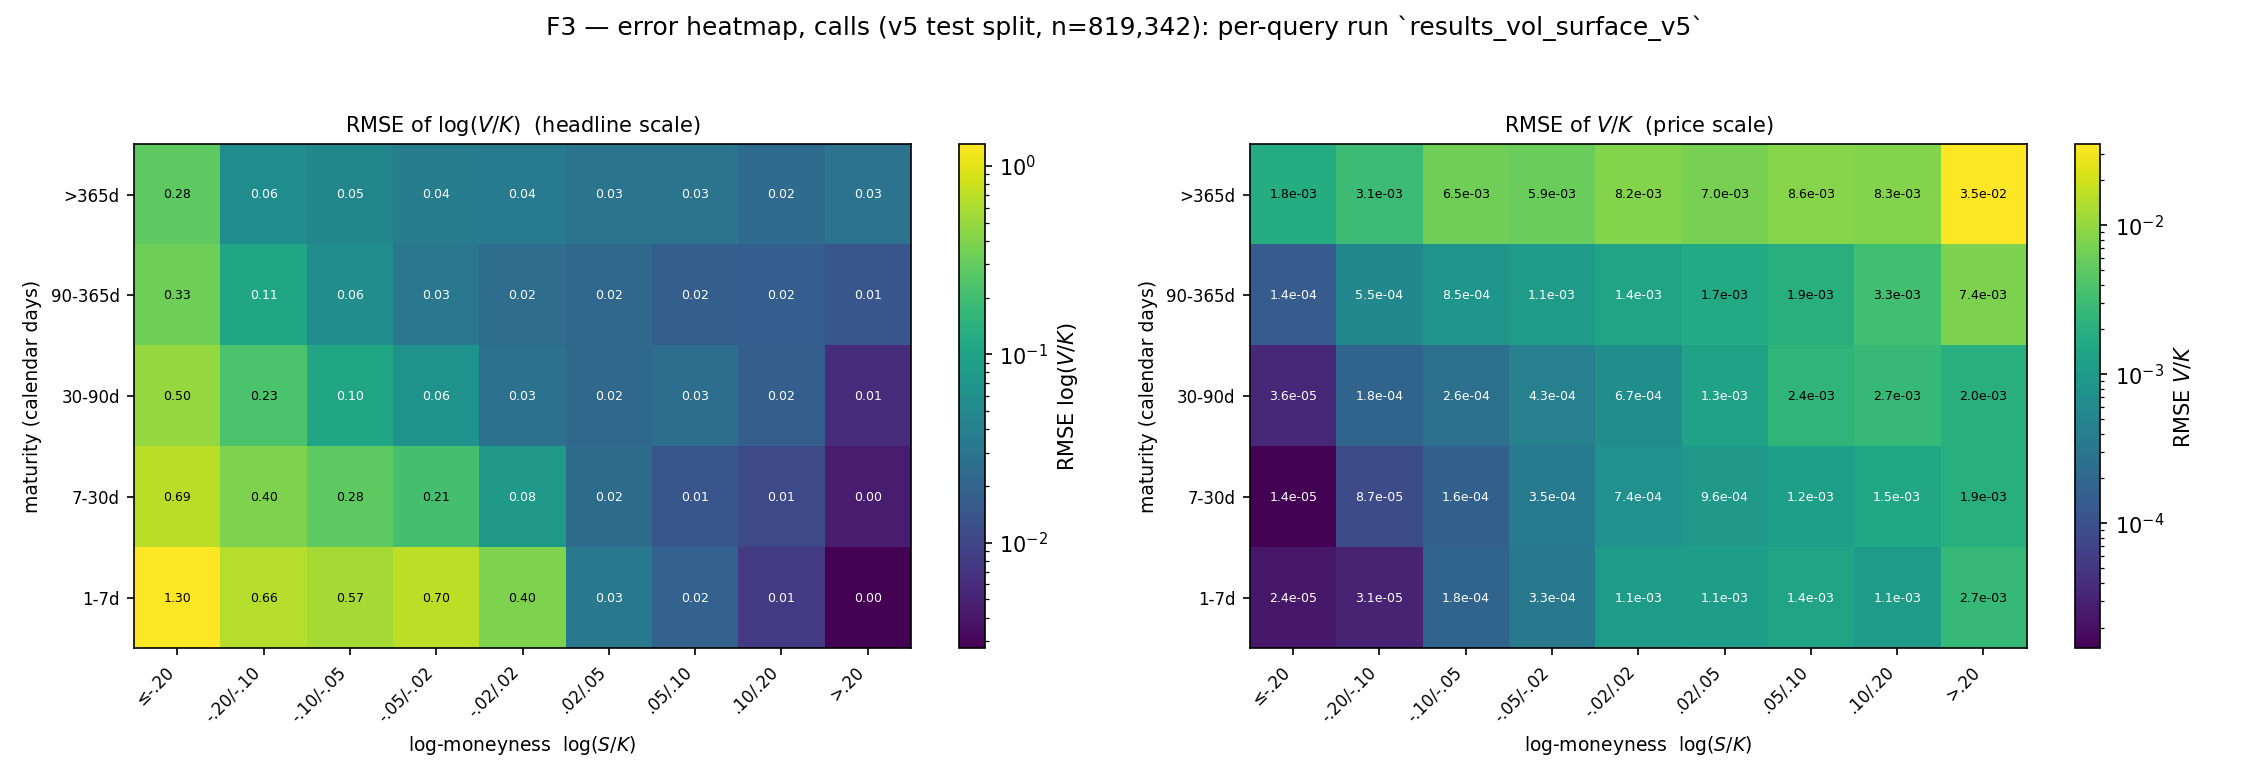
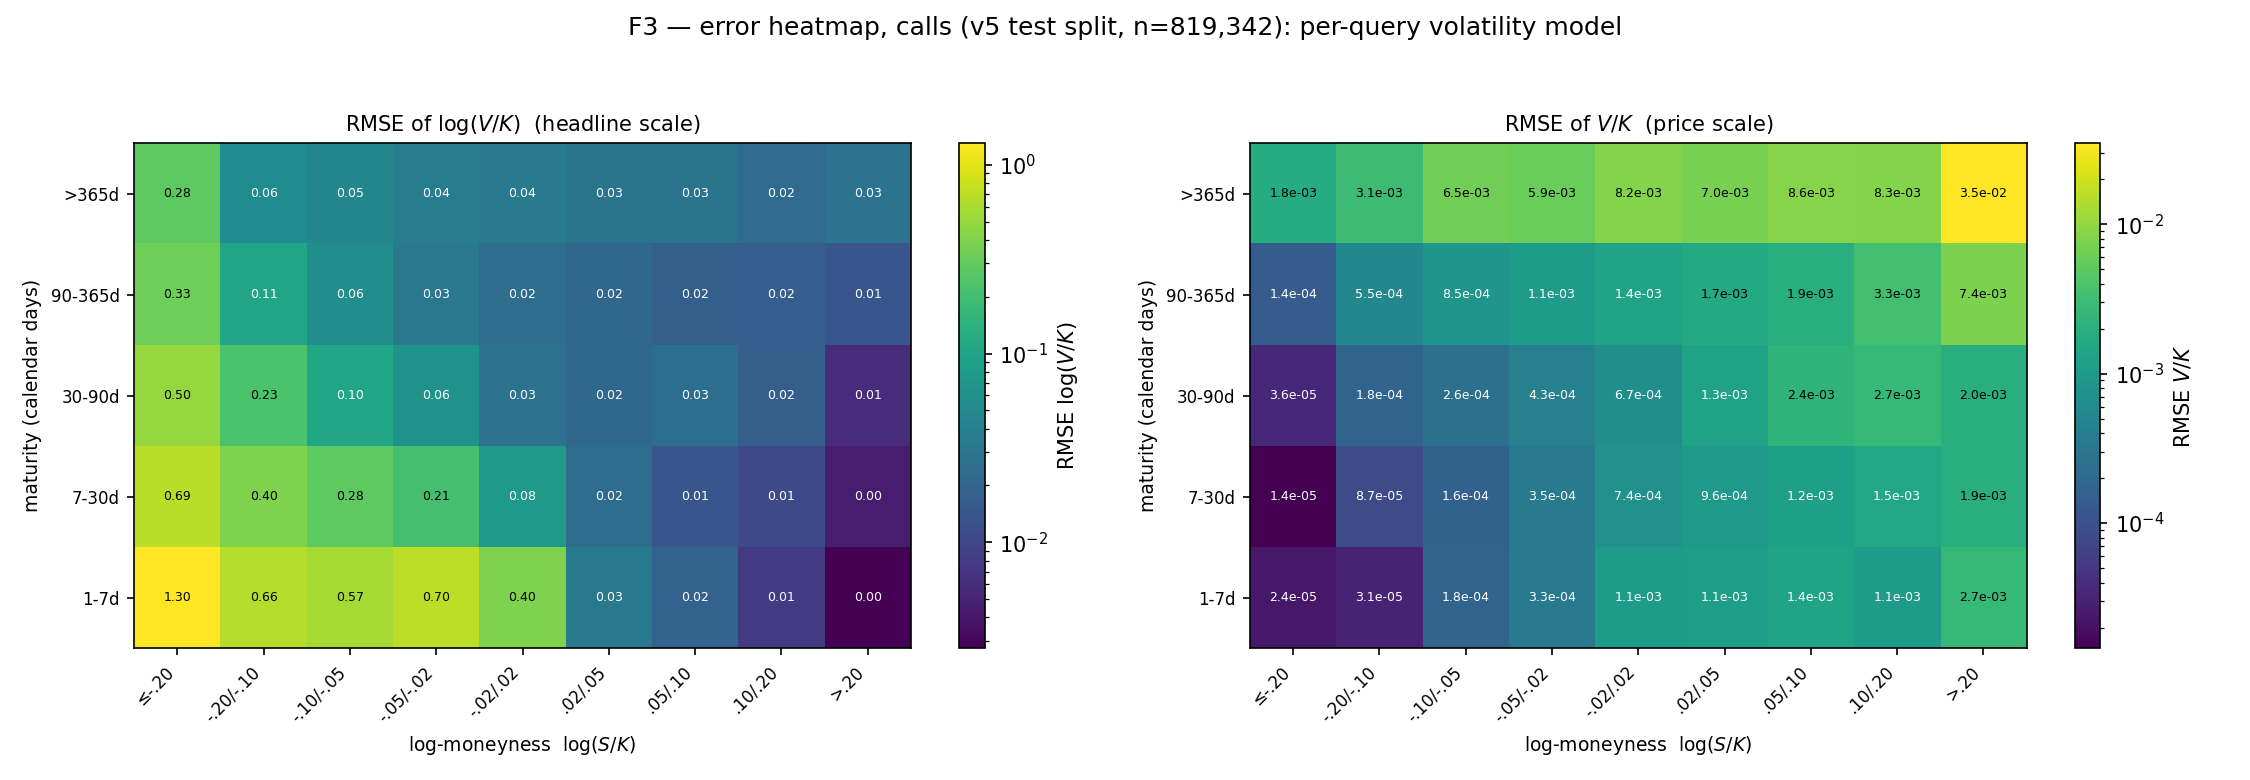
Fix four manuscript errors and F3 figure title
- §1: delete the "matches or beats a direct-price regressor of equal
  capacity" contribution outright — no such control was ever trained.
  Contributions renumbered 1-2; the greeks / pointwise-BS-consistency
  claims are kept as structural properties. Removes the now-moot
  "should be dropped" flags in the status note and §7, and the same
  item from §8's remaining-work list.
- §6/T4: correct the call/put ITM/OTM orientation. The deepest-negative
  log-moneyness column is OTM for calls (not ITM) and ITM for puts; the
  put "naturally OTM on the left" clause contradicted the rest of its
  own sentence. Labels re-derived from results/fig_F3_error_heatmap_v5.md.
- §6/T4 + §7: reframe mechanism (b). Near-ATM ill-conditioning of
  dlog(price)/dsigma worsens continuously as T -> 0; it is not defined by
  a T <= 1 day range that v5 does not contain. The (1.73, 7]-day band is
  v5's shortest surviving maturity and hence where it is most visible.
- §4.3 (new): retention / row-count table across the pipeline, compiled
  from VALIDATION_v4.json, VALIDATION_v5.json and DATASET_MANIFEST.json.
  No new computation; the raw-CSV stage is explicitly still TODO.
- analysis/fig_error_heatmap.py: drop the source-directory name from the
  F3 suptitle; PNGs regenerated (identical statistics, title text only).

diff --git a/analysis/fig_error_heatmap.py b/analysis/fig_error_heatmap.py
@@ -171,7 +171,7 @@ def make_figure(option_type, out_png, max_contracts=None, device="cpu"):
     _panel(axes[1], rmse_price, counts, "RMSE of $V/K$  (price scale)",
            "RMSE $V/K$", ".1e")
     fig.suptitle(f"F3 — error heatmap, {option_type}s (v5 test split, n={counts.sum():,}): "
-                 f"per-query run `results_vol_surface_v5`", fontsize=12)
+                 f"per-query volatility model", fontsize=12)
     fig.tight_layout(rect=(0, 0, 1, 0.95))
     Path(out_png).parent.mkdir(parents=True, exist_ok=True)
     fig.savefig(out_png, dpi=150)

diff --git a/report.md b/report.md
@@ -167,9 +167,8 @@ from. Do not cite a number here that is not in a results file.*
 > §6). Trained weights (`*.pth`) are not committed to git; the committed artifacts are `config.json`,
 > `metrics.json`, `loss_history.txt`, `loss_plot.png` per run.
 >
-> **What is still genuinely open** (unchanged by this note, see §7 for the full list): the "matches
-> or beats a direct-price regressor" claim has no supporting experiment and should be dropped from
-> the manuscript rather than backed after the fact; figures F1 (architecture diagram), F4 (near-expiry
+> **What is still genuinely open** (unchanged by this note, see §7 for the full list): figures F1
+> (architecture diagram), F4 (near-expiry
 > SSE-vs-T tail), and F6 (a greeks-agreement *figure*, as opposed to the already-run greeks *check*)
 > are not built; related-work citations (§2) and environment/dependency pinning (Appendix C) are not
 > gathered; a surface-wide arbitrage violation-rate diagnostic remains queued, non-blocking work.
@@ -235,11 +234,14 @@ would include a `dσ̂/dS · vega` term the frozen-`σ̂` check cannot see.
 
 **Contributions (headline claims).**
 1. Per-query `σ̂` recovers the volatility smile/skew that a single-scalar `σ̂` cannot.
-2. The analytical-BS decoder matches or beats a direct-price regressor of equal capacity, while
-   giving analytic partial greeks and pointwise BS-consistent prices.
-3. Among market-state inputs (IV surface / SPX history / VIX history), we quantify which prices best
+2. Among market-state inputs (IV surface / SPX history / VIX history), we quantify which prices best
    — and by how much (§6, T1; all three legs done on v5, including the corrected genuine-CBOE-VIX
    `vix_history` runs).
+
+The analytical-BS decoder additionally gives analytic partial greeks (verified in §5.4) and
+pointwise BS-consistent prices (§3.4) — structural properties of the design. This paper makes no
+claim about how it compares to a direct-price regressor of equal capacity: that control was never
+run (§7).
 
 > **Note on scope (keep while drafting):** this is an empirical / application paper. The core idea
 > (differentiable BS layer, learning IV not price, analytical-pricer decoder) is sound but **not
@@ -498,7 +500,6 @@ puts (~5.3%). ⚠ v3's `T > 1/365` filter did **not** actually exclude 1-day 
 filter (§4.1) is a no-op — on v4, "headline" and "full-domain" `R²(log)` are the same number. Do
 **not** re-cut v4 to imitate the v3 float32 rounding accident; that would weaken the methodology.
 
-> **TODO:** retention / row-count table across the full pipeline (raw → filtered → per-split).
 > **Resolved 2026-08-12:** whether per-contract observed IV can be recovered for the smile figure
 > F2 — `analysis/baselines.py` now inverts `normalized_price` via vectorised bisection on the v4
 > sample and cross-checks it against the stored OptionMetrics `impl_volatility`: combined coverage
@@ -508,6 +509,45 @@ filter (§4.1) is a no-op — on v4, "headline" and "full-domain" `R²(log)` are
 > the numbers. **Resolved 2026-08-15:** the 12 core model runs are trained on v5 (§4.1a, §5.1) — the
 > full experimental campaign for this paper is complete; see the 2026-08-15 note near the top of this
 > document.
+
+### 4.3 Retention / row counts across the pipeline
+
+Compiled from `wrds_data_2020-2025/VALIDATION_v4.json`, `VALIDATION_v5.json` and
+`DATASET_MANIFEST.json` (no new computation; percentages are `(v4 − v5) / v4`).
+
+**Stage 1 — phase-1 parquet.** `deeponet_training_data_parts_v4/` holds **13,595,211** rows in 43
+parts, both option types combined, *before* the maturity cut (`VALIDATION_{v4,v5}.json`,
+`parquet_rows_all_types`). Phase 2 then splits by `cp_flag` and applies the required-column
+null-drop, the `vol_surface_vector` length check and the `--min-maturity-days 1.0` settlement-aware
+maturity cut, yielding the v4 HDF5 row counts below (12,946,646 call+put, i.e. 648,565 parquet rows
+did not survive phase 2).
+
+**Stage 2 — v4 (unfiltered) → v5 (quote-quality filtered).** The zero-tolerance static
+no-arbitrage midpoint filter (§4.1a, `results/QUOTE_QUALITY_REPORT.md`) removes rows only; all
+2128/266/267 split dates are preserved bit-identically.
+
+| option | split | v4 rows | v5 rows | removed | removed % |
+|---|---|---:|---:|---:|---:|
+| call | train | 3,360,823 | 3,297,722 | 63,101 | 1.878% |
+| call | validation | 754,276 | 729,204 | 25,072 | 3.324% |
+| call | test | 840,493 | 819,342 | 21,151 | 2.516% |
+| call | **total** | **4,955,592** | **4,846,268** | **109,324** | **2.206%** |
+| put | train | 5,370,629 | 5,323,327 | 47,302 | 0.881% |
+| put | validation | 1,229,955 | 1,221,643 | 8,312 | 0.676% |
+| put | test | 1,390,470 | 1,380,379 | 10,091 | 0.726% |
+| put | **total** | **7,991,054** | **7,925,349** | **65,705** | **0.822%** |
+
+Split dates are identical in v4 and v5: train 2,128 dates (2015-02-02 … 2023-07-17), validation 266
+(2023-07-18 … 2024-08-06), test 267 (2024-08-07 … 2025-08-29). The train-vs-test removal
+differential is small (+0.64 pp call, −0.16 pp put), which is why this rule was preferred over
+spread-based alternatives that shift 1.9–4.4× more of train than test (§4.1a).
+
+> **Still TODO (one stage only):** the *raw* OptionMetrics CSV row count and the per-rule attrition
+> inside phase 1 (secid/index filters, date-range cut, VIX/spot join losses) are not recorded in any
+> committed artifact — only the post-phase-1 parquet total (13,595,211) and the 648,565-row phase-2
+> attrition are, and the latter is not itself broken down by cause (null-drop vs surface-length vs
+> maturity cut). Filling this in requires re-scanning the raw CSVs, which is new computation and was
+> deliberately not run for this table.
 
 ---
 
@@ -792,7 +832,8 @@ separately.
   specification issue** (an undifferentiated `T=0` from calendar-day rounding), not a fact about how
   hard the pricing problem is.
 - **(b) Genuine small-`T` ill-conditioning (secondary, still real).** For contracts with small but
-  strictly positive `T` (e.g. `0 < T ≤ 1` day), `∂log(price)/∂σ` does blow up near ATM, and the
+  strictly positive `T`, `∂log(price)/∂σ` does blow up near ATM — continuously worse as `T → 0`,
+  with no threshold maturity at which it switches on — and the
   inverse problem really is ill-conditioned there — this part of the original narrative stands and
   is not being retracted, only separated from (a). Log-perfection on this slice is genuinely
   unattainable, unlike the `T=0` slice, which is unattainable for a different (fixable) reason.
@@ -898,17 +939,24 @@ carries the full 45-cell table per option type; summarized here.
 Overall test-split RMSE(log): call 0.2219, put 0.2941 (matches T1's `vol_surface` A row exactly, as
 expected — this is the same run). Both option types show the same qualitative pattern: **error is
 highest in the deep wings and at short maturity, and lowest near-ATM at medium-to-long maturity.**
-For calls, the `(1,7]`-day bucket peaks at RMSE(log)=1.304 in the deepest ITM column (n=357) versus
-0.019–0.033 near ATM in the same maturity row; for puts the pattern is asymmetric because puts are
-naturally OTM on the left of the grid — the `(1,7]`-day row peaks at RMSE(log)=0.636–0.659 in the
-deep-OTM columns (`log(S/K) > 0.10`, tens of thousands of rows) versus 0.003–0.037 in the deep-ITM
-columns. On the **price scale**, however, these same cells are tiny in absolute terms (e.g. the
-worst call cell is RMSE(V/K)=2.4e-05, the worst put short-dated OTM cell is RMSE(V/K)≈1e-3) —
-consistent with §6/§7's point that the near-expiry log tail is economically small even where it is
-statistically large. No `T ≤ 1 day` row exists in v5 by construction (`(T_days <= 1).sum() == 0`,
-asserted by the figure script itself), so unlike the historical v3 near-expiry analysis, every cell
-here reflects genuine `T > 1 day` pricing difficulty (mechanism (b), §6 historical subsection), not
-the exact-`T=0` decoder degeneracy (mechanism (a), which does not exist in this sample).
+The two grids are mirror images of each other, because the OTM side sits on opposite ends of the
+log-moneyness axis for the two option types (a call is OTM at `log(S/K) < 0`, a put at
+`log(S/K) > 0`). For **calls**, the shortest-maturity `(1,7]`-day row peaks at RMSE(log)=1.304 in
+the deepest **OTM** column (`log(S/K) ≤ −0.20`, n=357), is 0.398 in the ATM band
+(`|log(S/K)| ≤ 0.02`, n=49,804), and falls to 0.003–0.033 across the ITM columns
+(`log(S/K) > 0.02`). For **puts** the same row peaks on the other side — RMSE(log)=0.636–0.659 in
+the deep-**OTM** columns (`log(S/K) > 0.10`, 42,318 rows) versus 0.003–0.037 in the ITM columns
+(`log(S/K) ≤ −0.02`). On the **price scale**, however, these same cells are tiny in absolute terms
+(e.g. the worst call cell is RMSE(V/K)=2.4e-05, the worst put short-dated OTM cell is
+RMSE(V/K)≈1e-3) — consistent with §6/§7's point that the near-expiry log tail is economically small
+even where it is statistically large. No `T ≤ 1 day` row exists in v5 by construction
+(`(T_days <= 1).sum() == 0`, asserted by the figure script itself), so unlike the historical v3
+near-expiry analysis, no cell here can be the exact-`T=0` decoder degeneracy (mechanism (a), §6
+historical subsection) — that mechanism is absent from this sample. What remains is mechanism (b),
+the ill-conditioning of `∂log(price)/∂σ` near ATM, which worsens **continuously as `T → 0`** rather
+than switching on below any particular maturity; the `(1.73, 7]`-day row is simply v5's
+shortest-maturity band (observed minimum 1.729 days) and is therefore where that continuous effect
+is most visible, not a bucket that satisfies some literal sub-one-day definition.
 
 ---
 
@@ -918,10 +966,13 @@ the exact-`T=0` decoder degeneracy (mechanism (a), which does not exist in this 
   Mechanism (a), the exact-`T=0` decoder degeneracy from calendar-day rounding, was a v3
   **specification bug**; v5's settlement-aware `--min-maturity-days 1.0` filter removes it by
   construction (zero `T=0` rows, `results/diagnostics_tail_v5.json`) — no further remediation is
-  needed. Mechanism (b), genuine small-`T` ill-conditioning for `0 < T ≤ 1` day, is real and
-  structural and is visible in F3's elevated short-maturity RMSE cells (§6, T4); log-perfection there
-  is unattainable. Since v5 has no `T ≤ 1 day` rows at all, mechanism (b) is now bounded to the
-  `(1, 7]`-day bucket rather than sub-1-day — a strictly easier residual than the v3-era one. A
+  needed. Mechanism (b), the genuine ill-conditioning of `∂log(price)/∂σ` near ATM, is real and
+  structural: it is a **continuous** effect that worsens as `T → 0`, not a regime that begins below
+  some threshold maturity. v5's maturity filter therefore does not remove it, it only bounds how
+  severe it can get — the worst-conditioned rows the sample can contain are those in the shortest
+  surviving band, `(1.73, 7]` days, which is exactly where F3's elevated short-maturity RMSE cells
+  sit (§6, T4). Log-perfection there is unattainable, but the residual is strictly milder than the
+  v3-era one, which extended all the way down to the degenerate `T = 0` rows. A
   tail-aware loss / reparametrization / σ̂ uncertainty quantification remains a natural but
   out-of-scope follow-on.
 - **Pointwise, not surface-wide, BS-consistency.** The decoder guarantees static no-arbitrage bounds
@@ -972,11 +1023,11 @@ the exact-`T=0` decoder degeneracy (mechanism (a), which does not exist in this 
 - **European-style assumption.** SPX options are European, so BS applies directly. Any American-style
   contamination would violate the BS-pricing assumption.
 - **No transaction costs / bid-ask.** We price the mid; spreads and costs are out of scope.
-- **No direct-price-regression baseline.** The introduction's claim (§1, contribution 2) that the
-  BS-decoder design "matches or beats a direct-price regressor of equal capacity" has no supporting
-  experiment in this campaign. For a first preprint the recommended resolution is to remove this
-  claim rather than add a new experimental workstream (`results/MANUSCRIPT_READINESS_INVENTORY.md`
-  §7); it is flagged here rather than silently left in §1.
+- **No direct-price-regression baseline.** This campaign never trained a direct-price regressor of
+  equal capacity, so the paper makes no claim about how the BS-decoder design compares to one — the
+  claim that was previously carried in §1 has been removed rather than backed after the fact
+  (`results/MANUSCRIPT_READINESS_INVENTORY.md` §7). Running that control is a natural follow-on, not
+  a blocker for a first preprint.
 - **Throughput numbers are not benchmark-quality.** `throughput_contracts_per_s` appears in every
   run's `metrics.json` but is an uncontrolled, run-to-run-noisy measurement — not citable for any
   performance/latency claim until measured under a controlled, repeated-timing benchmark.
@@ -1011,7 +1062,7 @@ real contribution (§7).
 The canonical v5 dataset (§4.1a), the 12-run training matrix, the seed-43/44 replication, the
 per-query-vs-scalar ablation, the greeks check, and figures F2/F3/F5 are all complete as of
 2026-08-15 — the experimental campaign behind this paper is done. What remains before submission is
-scoped, not open-ended: drop the unsupported direct-price-regressor claim from §1, build figures F1
+scoped, not open-ended: build figures F1
 (architecture diagram), F4 (near-expiry SSE-vs-T tail), and F6 (a plotted greeks-agreement figure),
 gather related-work citations (§2), and pin the environment (Appendix C).
 
